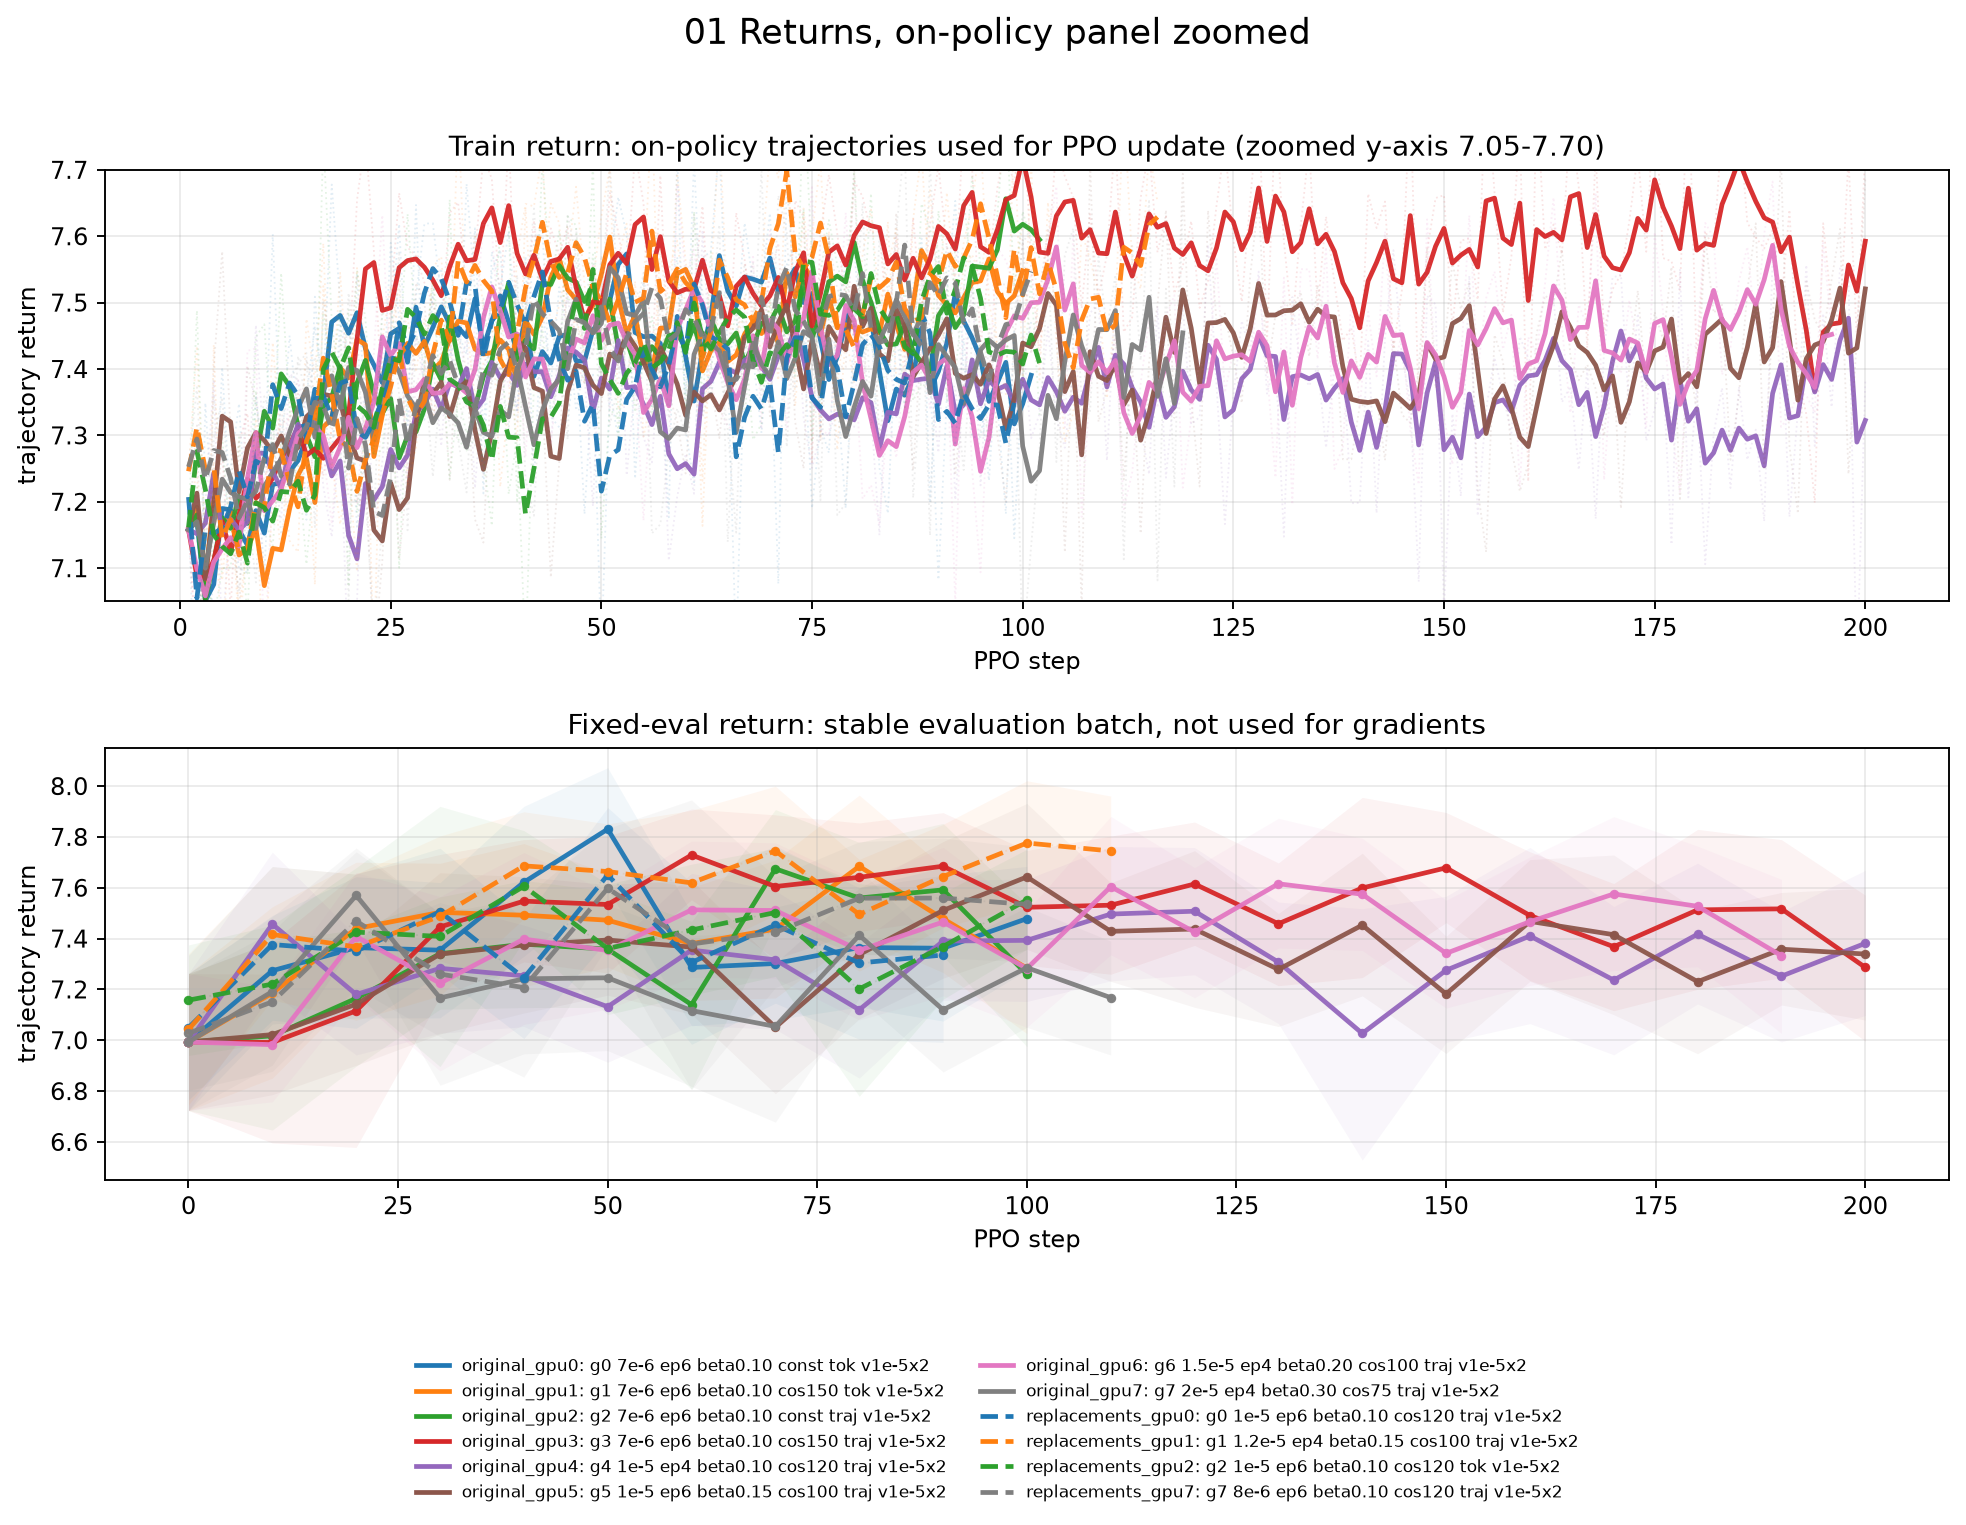
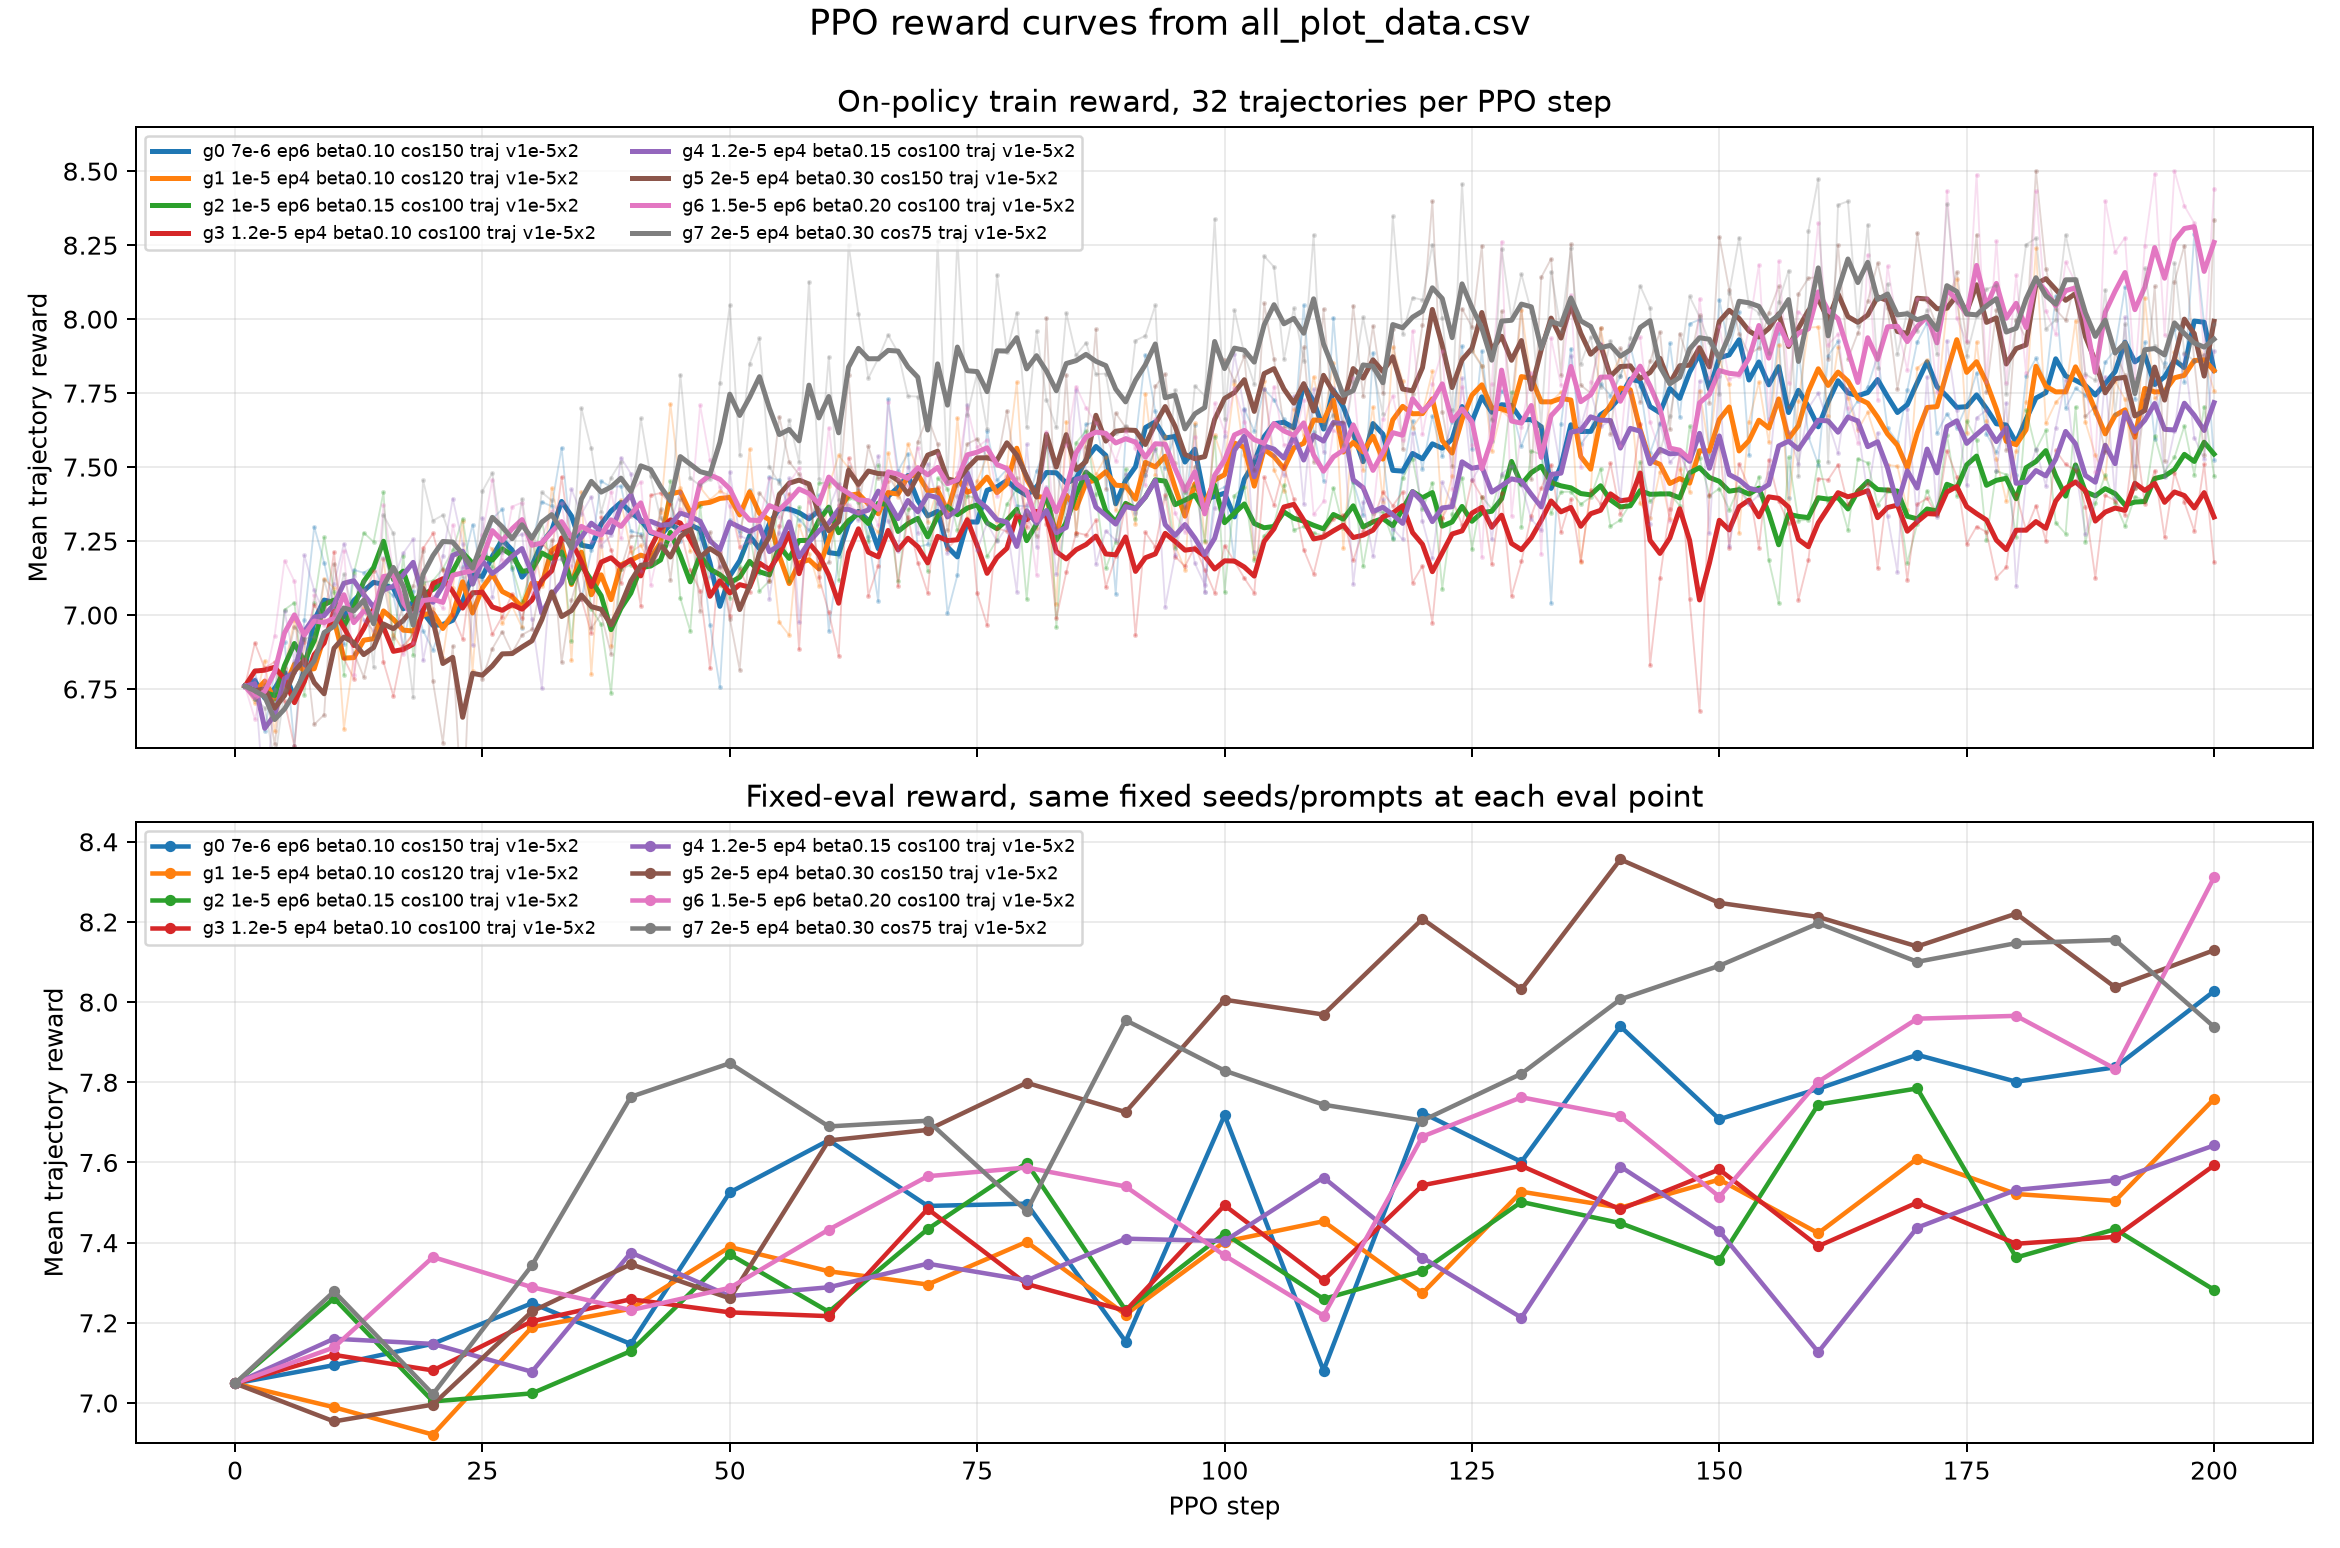
Update PPO monitoring plots

diff --git a/README.md b/README.md
@@ -215,35 +215,34 @@ logged or used as a penalty.
 The current PPO sweeps vary the learning rate, the number of PPO epochs per
 rollout batch, the reference-KL penalty coefficient, the learning-rate schedule,
 and whether the token loss is reduced with a token-uniform or
-trajectory-balanced mean. For example, one stable configuration uses
-`lr=1.2e-5`, `ppo_epochs=4`, `reference_kl_coef=0.15`, cosine decay over 100
-steps, trajectory-balanced token reduction, and two post-update value-head
-epochs. On the fixed evaluation set, that run improves total reward from
-`7.043` to `7.745`, and the active symbolic Aria-similarity reward from
-`0.135` to `0.595`, while keeping the exact KL to the SFT reference around
-`0.288`.
+trajectory-balanced mean. In the latest 200-step sweep, the strongest final
+fixed-eval run uses `lr=1.5e-5`, `ppo_epochs=6`, `reference_kl_coef=0.20`,
+cosine decay over 100 steps, trajectory-balanced token reduction, and two
+post-update value-head epochs. On the fixed evaluation set, that run improves
+total reward from `7.049` to `8.311`, and the active symbolic Aria-similarity
+reward from `0.022` to `1.049`. The final train-state exact KL to the SFT
+reference is `0.053`; the matching fixed-eval exact KL is `0.147`.
 
 ![PPO train and fixed-eval returns](docs/assets/ppo_monitoring/ppo_returns_onpolicy_zoom.png)
 
 The train-only component plot zooms the on-policy structural and similarity
 subrewards, so the component movement is easier to see. It shows that the
 reward increase is not only a structural formatting gain: the active similarity
-component rises substantially in the better controlled runs. The most
-aggressive-looking peak in this sweep reaches
-a higher fixed-eval reward (`7.831` at step 50), but then drops back to `7.479`
-as exact KL climbs to about `1.106`. This is the failure mode I want to avoid:
-without enough reference control, the policy can move quickly away from the SFT
-model, and the sampled trajectories start degrading even if an intermediate
-checkpoint looked promising.
+component rises substantially in the better controlled runs. The highest
+intermediate fixed-eval point in this sweep reaches `8.356` at step 140, but
+then falls back to `8.129` by step 200. I therefore still prefer runs that
+improve reward together with controlled reference KL and stable fixed-eval
+behavior, rather than selecting the single highest checkpoint.
 
 ![PPO structural and similarity components](docs/assets/ppo_monitoring/ppo_component_returns.png)
 
 The KL plot uses a log-scale y-axis. The top panel is the exact categorical KL
 between the current policy and the frozen SFT reference over the full symbol
 distribution, not a sampled-action approximation. The lower panels track local
-movement from the rollout behavior policy and the sampled-token KL proxy used
-for PPO-style diagnostics. This separation matters: the behavior KL can stay
-small while cumulative drift from the SFT reference keeps growing.
+exact KL movement from the rollout behavior policy and the PPO clip fraction.
+Those lower panels are zoomed to the observed range so small trust-region
+changes remain visible. This separation matters: the behavior KL can stay small
+while cumulative drift from the SFT reference keeps growing.
 
 ![PPO exact KL and trust-region diagnostics](docs/assets/ppo_monitoring/ppo_trust_region_logkl.png)
 
